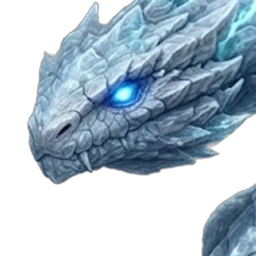
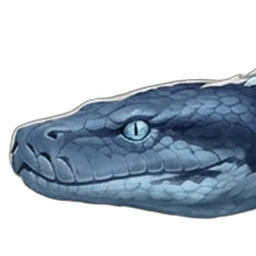
Frost Python: redesigned picture, roar picture, animated from its own videos with its own voice
Navy-blue python with ice-white diamonds and a frosted spine ridge, coiled low (Nano Banana 2.1).
Both videos were clean. Its idle is the calm second before its strike winds up (it drifts slowly
through the video); its flinch is only its first jerk back, played there and back, then eased
out into the idle (new `ease_out`). Also new for the next beasts: `trim_tail_x` and its options
(`tail_x`, `tail_fixed`, `tail_disc`, `tail_x_until`), cutting a tail where it reaches past the
back feet.

Claude-Session: https://claude.ai/code/session_018PQaDJLhfzPHgGb82XHzjM

diff --git a/scripts/make_beast_sheets.py b/scripts/make_beast_sheets.py
@@ -101,6 +101,15 @@ CLIPS = {
     "ember_lizard": {"attack": (0.7, 1.55), "hit": (1.0, 1.85), "death": (4.0, 4.9), "idle_span": (8, 13),
                      "breathe": 0.035, "idle_from": 0.33, "idle_until": 0.88, "attack_ms": 1800,
                      "ease_in": {"attack": 3, "hit": 3, "death": 4}, "settle": {"attack": 3, "hit": 3}},
+    # Nov 27 redesign: both videos clean (no remakes): its idle and its open-jawed strike from the attack video (taken
+    # on until it is calm again, so it settles with no double head), its flinch and its sinking collapse (its neck
+    # lowering till its head lies in front of its coils) from the hit video; the flinch is only its first jerk back
+    # (it then reared its head high: cut before), played there and back so it returns the way it went. The snake drifts
+    # slowly all through its video, so its idle is the calm second just before the strike winds up
+    "frost_python": {"attack": (3.3, 6.4), "hit": (2.1, 2.7), "death": (4.6, 7.9), "idle_span": (16, 26),
+                     "breathe": 0.035, "idle_from": 2.2, "idle_until": 3.35, "attack_ms": 2400, "pingpong": ("hit",),
+                     "ease_in": {"attack": 2, "hit": 3, "death": 4}, "settle": {"attack": 3},
+                     "ease_out": {"hit": 3}, "place_as": {"attack": "idle"}},
     "old_black_bear": {"attack": (2.3, 5.1), "hit": (2.05, 3.45), "death": (3.9, 6.4), "idle_span": (30, 46),
                        "idle_from": 5.8, "attack_ms": 2600, "bite": 27, "impact": 10, "white": ("death",)},
                        # its attack from the remade video with headroom (Nov 26): the first one's head left the video
@@ -320,8 +329,26 @@ def trim_tail(im, r=27, keep=55, fade=35):
     return Image.fromarray(a, "RGBA")
 
 
+def trim_tail_x(im, keep=18, fade=20, band=0.1, end=None):
+    """A long tail cut back by where it is, not by how thin it is (the Wind Leopard's: thick at its root, so
+    `trim_tail` takes it for body): whatever reaches further right than the beast's back feet (the right end of its
+    lowest `band` of rows) by more than `keep` px fades out over `fade` px. The beast faces left, so nothing of its
+    own body but the tail lies behind its back feet; lying dead, its stretched-out hind feet still mark the end."""
+    a = np.asarray(im).copy()
+    m = a[..., 3] > 128
+    rows = np.flatnonzero(m.any(1))
+    if not len(rows):
+        return im
+    if end is None:                                          # (a move lying down: the line its standing start drew)
+        low = m[rows.max() - max(2, int(len(rows) * band)):rows.max() + 1]
+        end = np.flatnonzero(low.any(0)).max() + keep
+    ramp = np.clip((end + fade - np.arange(a.shape[1])) / fade, 0, 1)
+    a[..., 3] = (a[..., 3] * ramp[None, :]).astype(np.uint8)
+    return Image.fromarray(a, "RGBA"), end
+
+
 def cut_clip(kind, video, numbers, cfg, cache, session):
-    out, raw = [], None
+    out, raw, tail_end = [], None, None
     for n in numbers:
         path = os.path.join(cache, kind, f"{n:03d}.png") if cache else None
         if path and os.path.exists(path):
@@ -335,7 +362,13 @@ def cut_clip(kind, video, numbers, cfg, cache, session):
         im = cut_one(raw[n], session, cfg.get("slab", {}).get(kind), kind in cfg.get("white", ()),
                      cfg.get("fade", {}).get(kind, 0), cfg.get("mark", MARK), cfg.get("unstar", {}).get(kind))
         if kind in cfg.get("trim_tail", ()):
-            im = trim_tail(im)
+            if not cfg.get("tail_x") or kind in cfg.get("tail_disc", ()):   # by thinness (a lying beast's thin tail)
+                im = trim_tail(im, *cfg.get("tail_r", ()))
+            until = cfg.get("tail_x_until", {}).get(kind)    # (lying down, its lowest part is no longer its feet)
+            if cfg.get("tail_x") and (until is None or n < until * FPS):   # and where it reaches past its back feet;
+                im, end = trim_tail_x(im, *cfg["tail_x"], end=tail_end)    # a move lying down keeps its first line
+                if kind in cfg.get("tail_fixed", ()):
+                    tail_end = end
         if path:
             os.makedirs(os.path.dirname(path), exist_ok=True)
             im.save(path)
@@ -403,6 +436,16 @@ def ease_in(frames, rest, n):
         m[..., :3] /= np.maximum(m[..., 3:], 1e-6)
         out.append(Image.fromarray((np.clip(m, 0, 1) * 255).astype(np.uint8), "RGBA"))
     return out + list(frames)
+
+
+def ease_out(frames, rest, n):
+    """The move's calm last frame eased back into `rest` (the idle's first frame) over n more frames: `ease_in` run
+    the other way, for a move from another video that ends calm but a little off the idle (the Frost Python's flinch,
+    played there and back). Unlike `settle` it only uses the last frame, so a thin part that moved in the frames
+    before (a flicking tongue) never drags the slide."""
+    if not frames or n <= 0:
+        return frames
+    return list(frames) + ease_in([frames[-1]], rest, n)[:n][::-1]
 
 
 def smooth_idle(frames, ms):
@@ -597,6 +640,8 @@ def main(slug, videos, cache=None):
             frames = ease_in(frames, rest, cfg["ease_in"][kind])
         if n_settle:                                         # (an int: the attack's; a dict: per move)
             frames = settle(frames, rest, n_settle)
+        if kind != "idle" and cfg.get("ease_out", {}).get(kind):
+            frames = ease_out(frames, rest, cfg["ease_out"][kind])
         if kind == "idle":
             frames, idle_ms = smooth_idle(frames, idle_ms)
             if cfg.get("breathe"):

diff --git a/tests/test_web_explore.py b/tests/test_web_explore.py
@@ -1234,6 +1234,49 @@ def test_an_idle_that_hardly_moves_is_given_a_slow_breath():
         idle = json.load(open(os.path.join("art", "beasts", "sheets", slug, "sheets.json")))["sheets"]["idle"]
         assert idle["ms"] >= 2000
 
+def test_the_frost_python_is_animated_from_its_own_videos_with_its_own_voice():
+    """SHOAIB's redesigned Frost Python (Nov 27, Martial Master Elite): both videos clean; its flinch is only its first jerk back, played there and back and eased out into the idle, which is the calm second before its strike winds up."""
+    import json
+    from web import beast_sheets, death, explore_play
+    d = beast_sheets.sheets("frost_python")
+    assert d and set(d["sheets"]) == {"idle", "attack", "hit", "death"} and d["sheets"]["idle"]["smooth"]
+    assert death.view({"kind": "beast", "name": "Frost Python", "slug": "frost_python"})["kind"] == "sheet"
+    assert os.path.exists(os.path.join("art", "beasts", "roar", "frost_python.png"))
+    keys = json.load(open(os.path.join("art", "fx", "sounds", "sounds.json")))
+    for sound in ("hit", "lunge", "death", "roar", "roar:big"):
+        assert f"{sound}@frost_python" in keys
+    assert json.load(open(os.path.join("art", "beasts", "heads.json")))["frost_python@roar"][:2] == [0.07, 0.22]
+    assert explore_play.beast_body("Frost Python") == "frost_python"
+
+def test_a_move_from_the_other_video_eases_back_out_into_the_idle():
+    """`make_beast_sheets.ease_out`: the last frame slides and dissolves into the idle over n more frames."""
+    from PIL import Image
+    from scripts.make_beast_sheets import ease_out
+    rest = Image.new("RGBA", (40, 20), (0, 0, 0, 0))
+    rest.paste((200, 0, 0, 255), (10, 5, 20, 15))
+    last = Image.new("RGBA", (40, 20), (0, 0, 0, 0))
+    last.paste((0, 0, 200, 255), (16, 5, 26, 15))
+    out = ease_out([last], rest, 3)
+    assert len(out) == 4 and out[0] is last
+    lefts = [im.getbbox()[0] for im in out]
+    assert lefts[0] > lefts[1] >= lefts[2] >= lefts[3] >= 10           # sliding home
+    assert out[-1].getpixel((12, 10))[0] > out[1].getpixel((12, 10))[0]  # and turning into the idle
+
+def test_a_tail_reaching_past_the_back_feet_is_cut_back():
+    """`make_beast_sheets.trim_tail_x`: whatever reaches further right than the back feet by more than `keep` fades."""
+    from PIL import Image
+    from scripts.make_beast_sheets import trim_tail_x
+    im = Image.new("RGBA", (200, 100), (0, 0, 0, 0))
+    im.paste((180, 150, 90, 255), (20, 20, 120, 60))     # body
+    im.paste((180, 150, 90, 255), (25, 60, 35, 100))     # front leg
+    im.paste((180, 150, 90, 255), (100, 60, 110, 100))   # back leg: its foot ends at x 110
+    im.paste((180, 150, 90, 255), (120, 30, 195, 38))    # a long tail
+    out, end = trim_tail_x(im, keep=10, fade=10)
+    assert end == 109 + 10
+    assert out.getpixel((115, 34))[3] == 255 and out.getpixel((150, 34))[3] == 0
+    out2, end2 = trim_tail_x(im, keep=10, fade=10, end=60)                 # a fixed line, for a move lying down
+    assert end2 == 60 and out2.getpixel((100, 40))[3] == 0
+
 def test_a_move_ending_in_another_pose_slides_and_dissolves_back_into_the_idle():
     """`make_beast_sheets.settle`: the last frames slide until the nose meets the idle's, then dissolve into it."""
     from PIL import Image

diff --git a/scripts/make_roar_fx.py b/scripts/make_roar_fx.py
@@ -53,7 +53,7 @@ MOUTHS = {
     "fire_hoof_steed": (0.04, 0.28),
     "flame_maned_lion": (0.06, 0.37),
     "flood_dragon_jiao": (0.03, 0.29),
-    "frost_python": (0.19, 0.35),
+    "frost_python": (0.03, 0.17),
     "frost_wolf": (0.04, 0.28),
     "ghost_fire_wolf": (0.06, 0.44),
     "golden_eyed_ape_king": (0.07, 0.32),
@@ -127,7 +127,7 @@ ROAR_MOUTHS = {
     "fire_hoof_steed": (0.08, 0.12),
     "flame_maned_lion": (0.07, 0.3),
     "flood_dragon_jiao": (0.08, 0.36),
-    "frost_python": (0.22, 0.32),
+    "frost_python": (0.07, 0.22),
     "frost_wolf": (0.1, 0.32),
     "ghost_fire_wolf": (0.08, 0.15),
     "golden_eyed_ape_king": (0.1, 0.33),

diff --git a/docs/web.md b/docs/web.md
@@ -578,6 +578,7 @@ What is recorded now (23 names, 22 files, about 220 KB, all from SHOAIB's videos
 | The Frost Wolf's snarling bite, its yelp when struck, its dying whimper and fall, its growl and big snarl (`@frost_wolf`) | its own idle + attack and hit + death videos (Nov 27) |
 | The Thunder Hawk's screeching beak stab, its screech when struck, its dying cry and fall, its call and big screech (`@thunder_hawk`) | its own idle + flinch + attack video (remade) and hit + death video (Nov 27) |
 | The Ember Lizard's hissing snap, its hiss when struck, its dying rasp and fall, its hiss and big hiss (`@ember_lizard`) | its own idle + attack video, its hit + death video and its remade hit + death video (Nov 27) |
+| The Frost Python's hissing strike, its hiss when struck, its sinking slump, its hiss and big hiss (`@frost_python`) | its own idle + attack and hit + death videos (Nov 27) |
 | A roar, and a big roar, for wolf-, cat- and ape-bodied beasts | the quadruped roar video |
 
 **His own sounds (Nov 24).** The new male's videos carry sound too, and his moves play it: his Strike's swing, his
@@ -1133,7 +1134,7 @@ its beasts in `DEATH_CATEGORY`. To give another four-legged beast the movement, 
 ## Animated beasts
 
 A beast can be animated from its videos (SHOAIB's, Gemini or Flow: idle, attack, hit, death; so far the **Grey Wolf**
-and the redesigned **Wild Boar**, **Field Viper**, **Stray Dog Pack**, **Wild Ox**, **Old Black Bear**, **Iron-Hide Boar**, **Red Fox**, the first bird, the **Wind-Feather Falcon**, the **Shadow Wolf**, the **Horned Stag**, the **Mountain Tiger**, the **Rock Python**, the **Spear-Beak Crane**, the **Thornback Lizard**, the **Bloodfang Wolf**, the **Armored Boar Chief**, the **White-Browed Tiger King**, the **Venom Scorpion**, the **Poison Toad**, the **Silver Monkey**, the **Steel-Horn Bull**, the **Golden-Eyed Ape King**, the **Ironbark Bear**, the **Frost Wolf**, the **Thunder Hawk** and the **Ember Lizard**). One video can hold two of them: the Wild Boar's idle comes from one video, its hit
+and the redesigned **Wild Boar**, **Field Viper**, **Stray Dog Pack**, **Wild Ox**, **Old Black Bear**, **Iron-Hide Boar**, **Red Fox**, the first bird, the **Wind-Feather Falcon**, the **Shadow Wolf**, the **Horned Stag**, the **Mountain Tiger**, the **Rock Python**, the **Spear-Beak Crane**, the **Thornback Lizard**, the **Bloodfang Wolf**, the **Armored Boar Chief**, the **White-Browed Tiger King**, the **Venom Scorpion**, the **Poison Toad**, the **Silver Monkey**, the **Steel-Horn Bull**, the **Golden-Eyed Ape King**, the **Ironbark Bear**, the **Frost Wolf**, the **Thunder Hawk**, the **Ember Lizard** and the **Frost Python**). One video can hold two of them: the Wild Boar's idle comes from one video, its hit
 and attack from a second, its death from a third (`CLIPS` gives the seconds of each).
 **The move panel never changes height** (fight.js `holdInfo`): it is held at the height of its tallest text (every
 move's and technique's, tried once when the page comes in, and again when the window changes size). Guard's and
@@ -1177,6 +1178,16 @@ Ember Lizard's, Frost Wolf's and Thunder Hawk's videos have no stretch where the
 is repeated to about one breath (2.4 s) and over it the body sinks a little from its planted feet and rises back (its
 back lower by up to 3.5% of its height, less lower down; never taller, so nothing leaves its cell), its head end
 swaying a touch back and forward. The loop's first frame is unchanged, so every move still starts and ends on it.
+**A move from the other video eases back out** (`ease_out`, Nov 27, the Frost Python): its flinch comes from its hit
+video and ends calm but a little off the idle, and `settle` slid it by its flicking tongue (a double head), so its
+calm last frame alone slides and dissolves back into the idle over a few more frames. Its flinch is only its first
+jerk back (it then reared its head high), played there and back. The snake drifts slowly all through its video, so
+its idle is the calm second just before its strike winds up, and the strike and the slump ease in from it.
+**A tail cut where it reaches past the back feet** (`trim_tail_x`, Nov 27): a tail Veo grew long but thick at its root
+(a cat's) is taken for body by `trim_tail`; this cuts whatever reaches further right than the beast's back feet (the
+right end of its lowest rows) by more than a few pixels. A move lying down keeps its standing first frame's line
+(`tail_fixed`) or stops using it once the beast is down (`tail_x_until`, by video seconds), and a thin tail lying beside
+the body is still found by thinness (`tail_disc`).
 **The idle never jumps** (`smooth_idle`; SHOAIB: "it keeps resetting"): its last frame never quite met its first, so
 a short idle plays forward then back, breathing in and out, and a long one (24+ frames) dissolves its last 6 frames
 into its first; and it keeps its place in time when the page is replaced each turn (fight.js sets its

diff --git a/art/beasts/README.md b/art/beasts/README.md
@@ -60,5 +60,5 @@ dark-green scorpion with its tail curled over its back; its videos kept the pict
 sparkle, so both are dropped, and its strike is taken without the green slash arc the video drew. The **Poison Toad** (Martial Expert) is a huge warty
 olive toad with bright toxic-green spots, its jolt's white impact lines wiped from its video. The **Silver Monkey** (Martial Expert) is an agile
 silver-furred monkey with a short curled tail; its attack video was remade (the first leapt off and turned round), and
-the tail Veo grew long in its hit and death video is cut back to a short stub. The **Steel-Horn Bull** (Elite) is a huge dark-brown bull with thick steel horns and an iron nose ring, drawn facing left (no longer mirrored; Nano Banana 2.1); both its videos were clean. The **Golden-Eyed Ape King**, the Martial Expert Beast King, is a colossal charcoal-and-rust great ape with a gold zigzag streak down its back and no tail; its picture was mirrored to face left before its videos (Nano Banana 2.1), and the few frames with dust at its fist slam are dropped. The **Ironbark Bear** (Martial Master) is a tawny bear armoured in red-brown ironwood bark with moss and jade-green stones, drawn facing left (no longer mirrored; Nano Banana 2.1); its swipe video was made from the uncleaned picture, so the sparkle Veo kept on its rump is cut away. The **Frost Wolf** (Martial Master) is a stocky pale silver-blue tundra wolf with a huge icy-tipped mane, a blue diamond on its brow and a short tucked tail (Nano Banana 2.1); it is pale, so its video effects are left out by choosing frames, never wiped: its bite stops just before the ice shards the video drew. The **Thunder Hawk** (Elite) is a bulky slate blue-grey hawk with a gold-tipped crest and gold zigzag stripes on its wings; it now stands and fights on its feet with its wings folded (no longer diving; no stone underfoot; Nano Banana 2.1). Its first attack and hit spread its wings off the video, so they come from one remade video; its fall from the first. The **Ember Lizard** (Martial Master) is a lean, long-legged runner, glossy black with coal-orange bands and a flame-orange neck frill (Nano Banana 2.1; the small flame wisp Gemini drew over its head painted out). Veo grew its short tail long in every video, so each move is taken before the tail grows. The beasts are
+the tail Veo grew long in its hit and death video is cut back to a short stub. The **Steel-Horn Bull** (Elite) is a huge dark-brown bull with thick steel horns and an iron nose ring, drawn facing left (no longer mirrored; Nano Banana 2.1); both its videos were clean. The **Golden-Eyed Ape King**, the Martial Expert Beast King, is a colossal charcoal-and-rust great ape with a gold zigzag streak down its back and no tail; its picture was mirrored to face left before its videos (Nano Banana 2.1), and the few frames with dust at its fist slam are dropped. The **Ironbark Bear** (Martial Master) is a tawny bear armoured in red-brown ironwood bark with moss and jade-green stones, drawn facing left (no longer mirrored; Nano Banana 2.1); its swipe video was made from the uncleaned picture, so the sparkle Veo kept on its rump is cut away. The **Frost Wolf** (Martial Master) is a stocky pale silver-blue tundra wolf with a huge icy-tipped mane, a blue diamond on its brow and a short tucked tail (Nano Banana 2.1); it is pale, so its video effects are left out by choosing frames, never wiped: its bite stops just before the ice shards the video drew. The **Thunder Hawk** (Elite) is a bulky slate blue-grey hawk with a gold-tipped crest and gold zigzag stripes on its wings; it now stands and fights on its feet with its wings folded (no longer diving; no stone underfoot; Nano Banana 2.1). Its first attack and hit spread its wings off the video, so they come from one remade video; its fall from the first. The **Ember Lizard** (Martial Master) is a lean, long-legged runner, glossy black with coal-orange bands and a flame-orange neck frill (Nano Banana 2.1; the small flame wisp Gemini drew over its head painted out). Veo grew its short tail long in every video, so each move is taken before the tail grows. The **Frost Python** (Elite) is a navy-blue python with ice-white diamonds and a frosted spine ridge, coiled low (Nano Banana 2.1; Gemini's sparkle painted onto its coil was un-blended before its videos); both its videos were clean. The beasts are
 being redone one at a time in roster order the same way.

diff --git a/art/beasts/PROMPTS.md b/art/beasts/PROMPTS.md
@@ -189,9 +189,9 @@ File: `art/beasts/ember_lizard.png` (Nov 27 redesign, Nano Banana 2.1; animated 
 > An Ember Lizard for a Chinese xianxia martial arts game: a lean, fast, long-legged lizard built for running, slim-bodied with a narrow pointed head, standing high on four long slender legs with its belly well off the ground. Smooth glossy black scales with bands of deep orange and red across its back and legs like the colours of hot coals (just colour, not glowing), and its signature: a wide neck frill coloured flame orange with dark red edges, folded flat back against its neck, solid and part of its body. Long thin clawed toes, and amber eyes with a faint orange glow of flame Qi (only the eyes glow). A SHORT, thick tail held low, close to the body, never long. All of its scales are solid: nothing coming off it, no smoke, no fire, no sparks. Quick and alert, still an animal, not a dragon. Strict side view, facing LEFT, standing tall on all four legs, head and neck raised, all four legs clearly visible, solid and separated, mouth closed. The whole lizard takes up about 60-70% of the picture's width, placed a little right of centre, with clear empty grey space above it (about a quarter of the picture's height) and on the left, and its feet a little above the bottom edge. Realistic digital painting, premium Chinese xianxia MMORPG creature concept art, detailed scales and frill, soft natural rim lighting, painterly brushwork, rich but mature colours. Plain flat even medium-grey background, the same grey from top to bottom, no gradient, no vignette, no light outline around the body, no ground, no shadow, no aura, no text, no watermark. 16:9.
 
 **Frost Python** · Elite · Frost
-File: `art/beasts/frost_python.png`
+File: `art/beasts/frost_python.png` (Nov 27 redesign, Nano Banana 2.1 (the sparkle Gemini painted onto its coil un-blended); animated from its idle + attack and hit + death videos)
 
-> A huge pale-blue python with ice-crusted scales, frost spreading where it coils, with a subtle icy blue elemental aura. It is an elite: larger and more battle-scarred than its kind. Digital painting, premium Chinese xianxia MMORPG creature concept art. Realistic anatomy, detailed scales, dramatic natural rim lighting, painterly brushwork, rich but mature colours. Full body, three-quarter view facing left, dynamic pose. Isolated on a plain transparent background, no ground, no text, no frame, no watermark.
+> A Frost Python for a Chinese xianxia martial arts game, an Elite beast: an enormous, very thick-bodied python with NO legs, heavier and more powerful than any real snake, with deep navy-blue scales on its back broken by a pattern of large pale ice-white diamond shapes, a smooth pale ice-blue belly, a broad, flat, heavy head with a blunt snout, and cold pale-blue slit-pupiled eyes with a faint glow of frost Qi (only the eyes glow). Its signature: a single row of short, thick, blunt ridge scales running along the top of its spine from head to tail, coloured ice-white like frosted crystal (just colour, not real ice), solid and part of its body. All of its scales are solid: nothing coming off it, no frost, no mist, no ice. Heavy and crushing, still a natural snake, not a dragon. Strict side view, facing LEFT: its body lies in a compact, low pile of thick coils on the ground, its tail tip tucked inside the coils, and only its neck rises in a short, low curve above the coils, with its head held level and pointing left, mouth closed. Nothing around it: no rocks, no ice. The whole snake takes up about 60-65% of the picture's height, placed a little right of centre, with clear empty grey space above it (about a quarter of the picture's height) and on the left, and its coils a little above the bottom edge. Realistic digital painting, premium Chinese xianxia MMORPG creature concept art, detailed scales, soft natural rim lighting, painterly brushwork, rich but mature colours. Plain flat even medium-grey background, the same grey from top to bottom, no gradient, no vignette, no light outline around the body, no ground, no shadow, no aura, no text, no watermark. 16:9.
 
 **Wind Leopard** · Elite · Thunder
 File: `art/beasts/wind_leopard.png`
